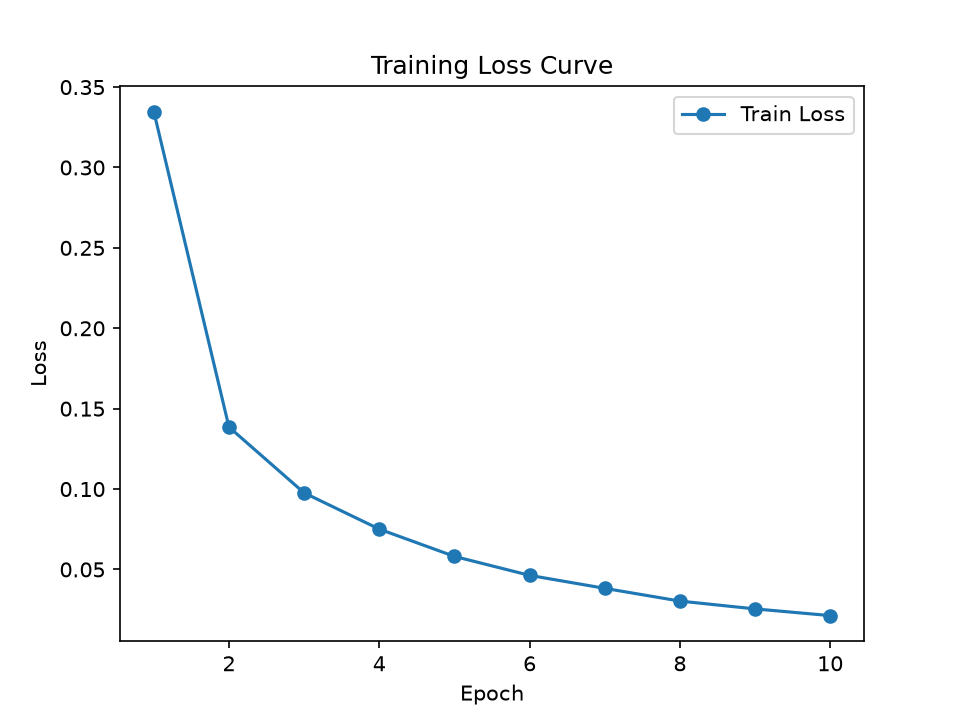
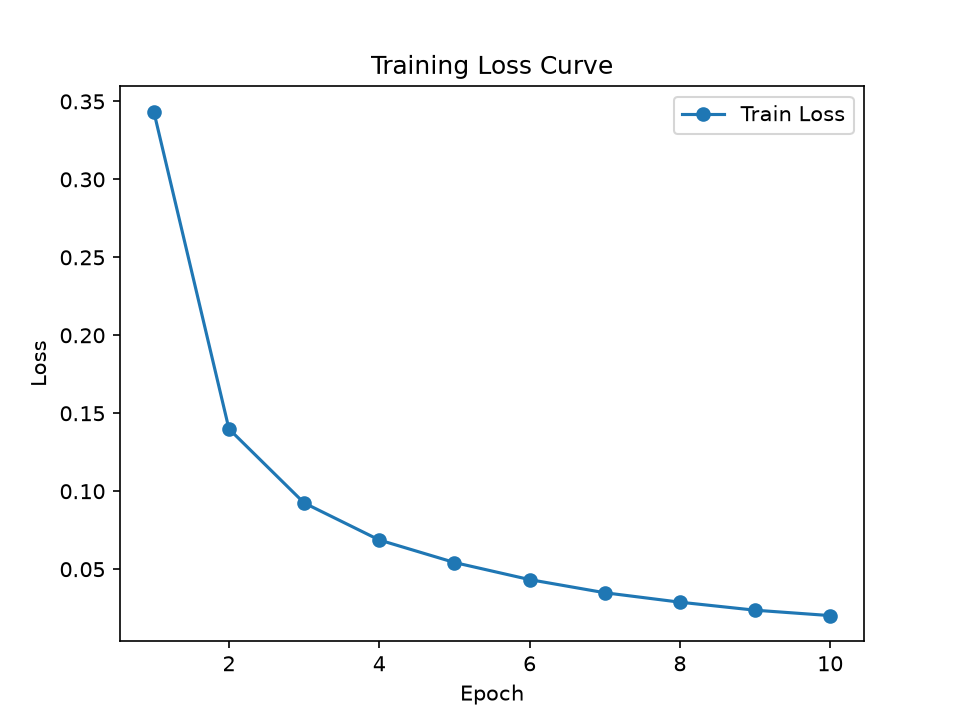
feat: add train.py in _mnist_cnn

diff --git a/03_mnist_cnn/train.py b/03_mnist_cnn/train.py
@@ -13,20 +13,24 @@ os.makedirs("plots", exist_ok=True)             #Create a folder to save train r
 
 num_epochs = 10
 lr = 1e-3
+device = torch.device("mps" if torch.backends.mps.is_available() else "cpu")
+print("Using device:", device)
+
 
 if __name__ == "__main__":
-    net = model.MyMLP()
+    net = model.MyCNN().to(device)
     criterion = nn.CrossEntropyLoss()
-    optimizer = optim.Adam(net.parameters(), lr=lr)
+    optimizer = optim.Adam(net.parameters(),lr = lr)
 
     epoch_loss = []
     epoch_acc = []
-    epoch_num = np.arange(1, num_epochs + 1)
+    epoch_num = np.arange(1, num_epochs+1)
 
     for epoch in range(num_epochs):
         net.train()
         running_loss = 0.0
         for images, labels in dataset.train_loader:
+            images, labels = images.to(device), labels.to(device)  # ← 加这一行
             outputs = net(images)
             loss = criterion(outputs, labels)
             optimizer.zero_grad()
@@ -43,6 +47,7 @@ if __name__ == "__main__":
         total_samples = 0
         with torch.no_grad():  # close grad calculation to save storage
             for images, labels in dataset.test_loader:
+                images, labels = images.to(device), labels.to(device)  # ← 加这一行
                 outputs = net(images)
                 preds = outputs.argmax(dim=1)  # This the result of prediction
                 total_correct += (preds == labels).sum().item()
@@ -51,22 +56,22 @@ if __name__ == "__main__":
         epoch_acc.append(accuracy)
         print(f"Test Accuracy:{accuracy:.4f}")
 
-    torch.save(net.state_dict(),"checkpoints/mnist_mlp.pth")            #保存模型
+    torch.save(net.state_dict(),"checkpoints/mnist_cnn.pth")            #保存模型
 
     plt.figure()
-    plt.plot(epoch_num,epoch_loss,label = "Train Loss", marker = "o")
+    plt.plot(epoch_num, epoch_loss, label="Train Loss", marker="o")
     plt.xlabel("Epoch")
     plt.ylabel("Loss")
     plt.title("Training Loss Curve")
     plt.legend()
-    plt.savefig("plots/loss_curve.png",dpi=150)
+    plt.savefig("plots/loss_curve_cnn.png", dpi=150)
 
     plt.figure()
-    plt.plot(epoch_num,epoch_acc,label = "Test Acc", marker = "o")
+    plt.plot(epoch_num, epoch_acc, label="Test Acc", marker="o")
     plt.xlabel("Epoch")
     plt.ylabel("Acc")
     plt.title("Test Acc Curve")
     plt.legend()
-    plt.savefig("plots/accuracy_curve.png",dpi=150)
+    plt.savefig("plots/accuracy_curve_cnn.png", dpi=150)
 
-    print("MLP params:", sum(p.numel() for p in net.parameters()))
+    print("CNN params:", sum(p.numel() for p in net.parameters()))

diff --git a/02_mnist_mlp/dataset.py b/02_mnist_mlp/dataset.py
@@ -2,11 +2,11 @@ from torch.utils.data import Dataset, DataLoader
 import torchvision
 
 
-train_dataset = torchvision.datasets.MNIST('./data',
+train_dataset = torchvision.datasets.MNIST('../data',
                                            train=True,
                                            transform=torchvision.transforms.ToTensor(),
                                            download=True)
-test_dataset  = torchvision.datasets.MNIST('./data',
+test_dataset  = torchvision.datasets.MNIST('../data',
                                            train=False,
                                            transform=torchvision.transforms.ToTensor(),
                                            download=True)

diff --git a/03_mnist_cnn/dataset.py b/03_mnist_cnn/dataset.py
@@ -2,11 +2,11 @@ from torch.utils.data import Dataset, DataLoader
 import torchvision
 
 
-train_dataset = torchvision.datasets.MNIST('./data',
+train_dataset = torchvision.datasets.MNIST('../data',
                                            train=True,
                                            transform=torchvision.transforms.ToTensor(),
                                            download=True)
-test_dataset  = torchvision.datasets.MNIST('./data',
+test_dataset  = torchvision.datasets.MNIST('../data',
                                            train=False,
                                            transform=torchvision.transforms.ToTensor(),
                                            download=True)

diff --git a/research-notes/2026-08-02.md b/research-notes/2026-08-02.md
@@ -82,7 +82,7 @@ accuracy = total_correct / total_samples
 ```
 # 模型保存
 ```python
-torch.save(net.state_dict(), "checkpoints/mnist_mlp.pth")
+torch.save(net.state_dict(), "checkpoints/mnist_cnn.pth")
 ```
 最后使用torch.save方法保存模型，保存的格式是state_dict() = {参数名: 张量} 字典，是一种标准格式，日后如果再使用可以直接加载。  
 state_dict():它返回一个 OrderedDict,键是参数名(如fc1.weight、fc1.bias),值是张量。简单的说它只保存权重,不保存模型结构。
